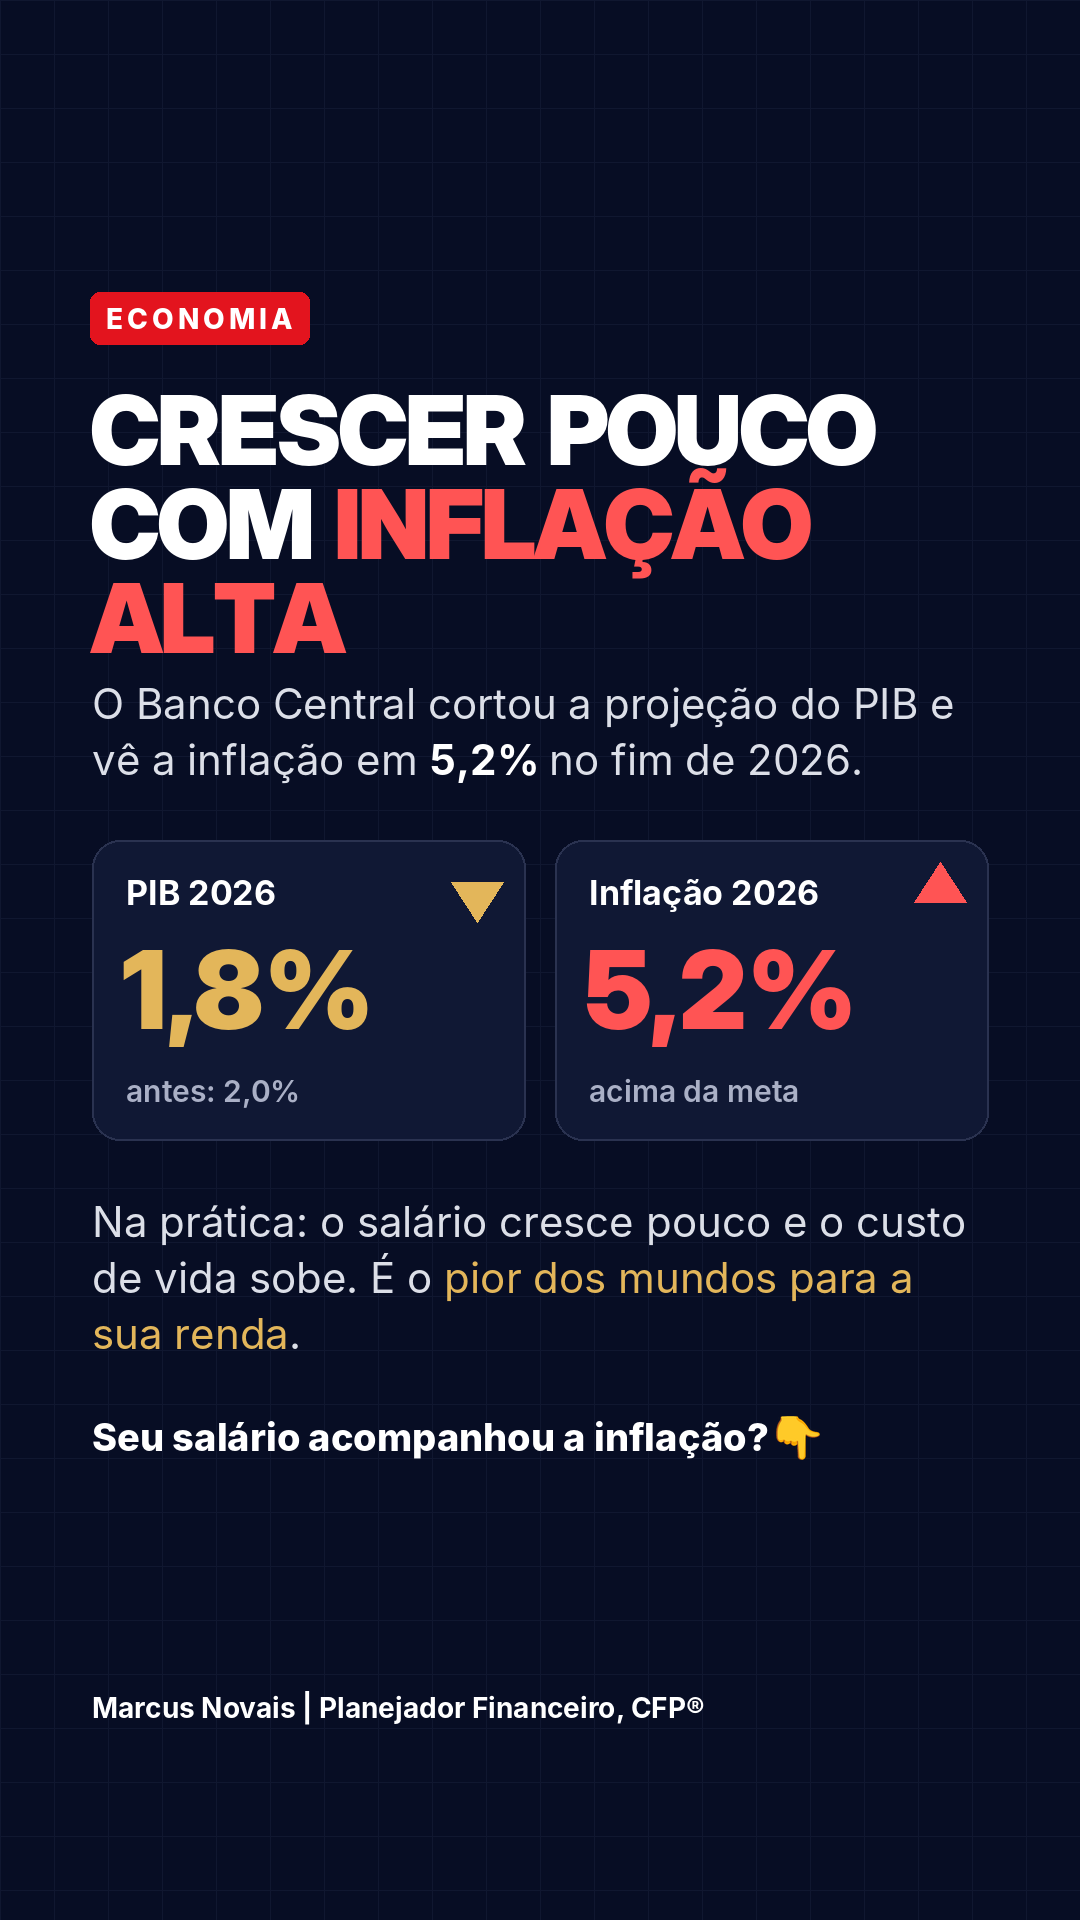
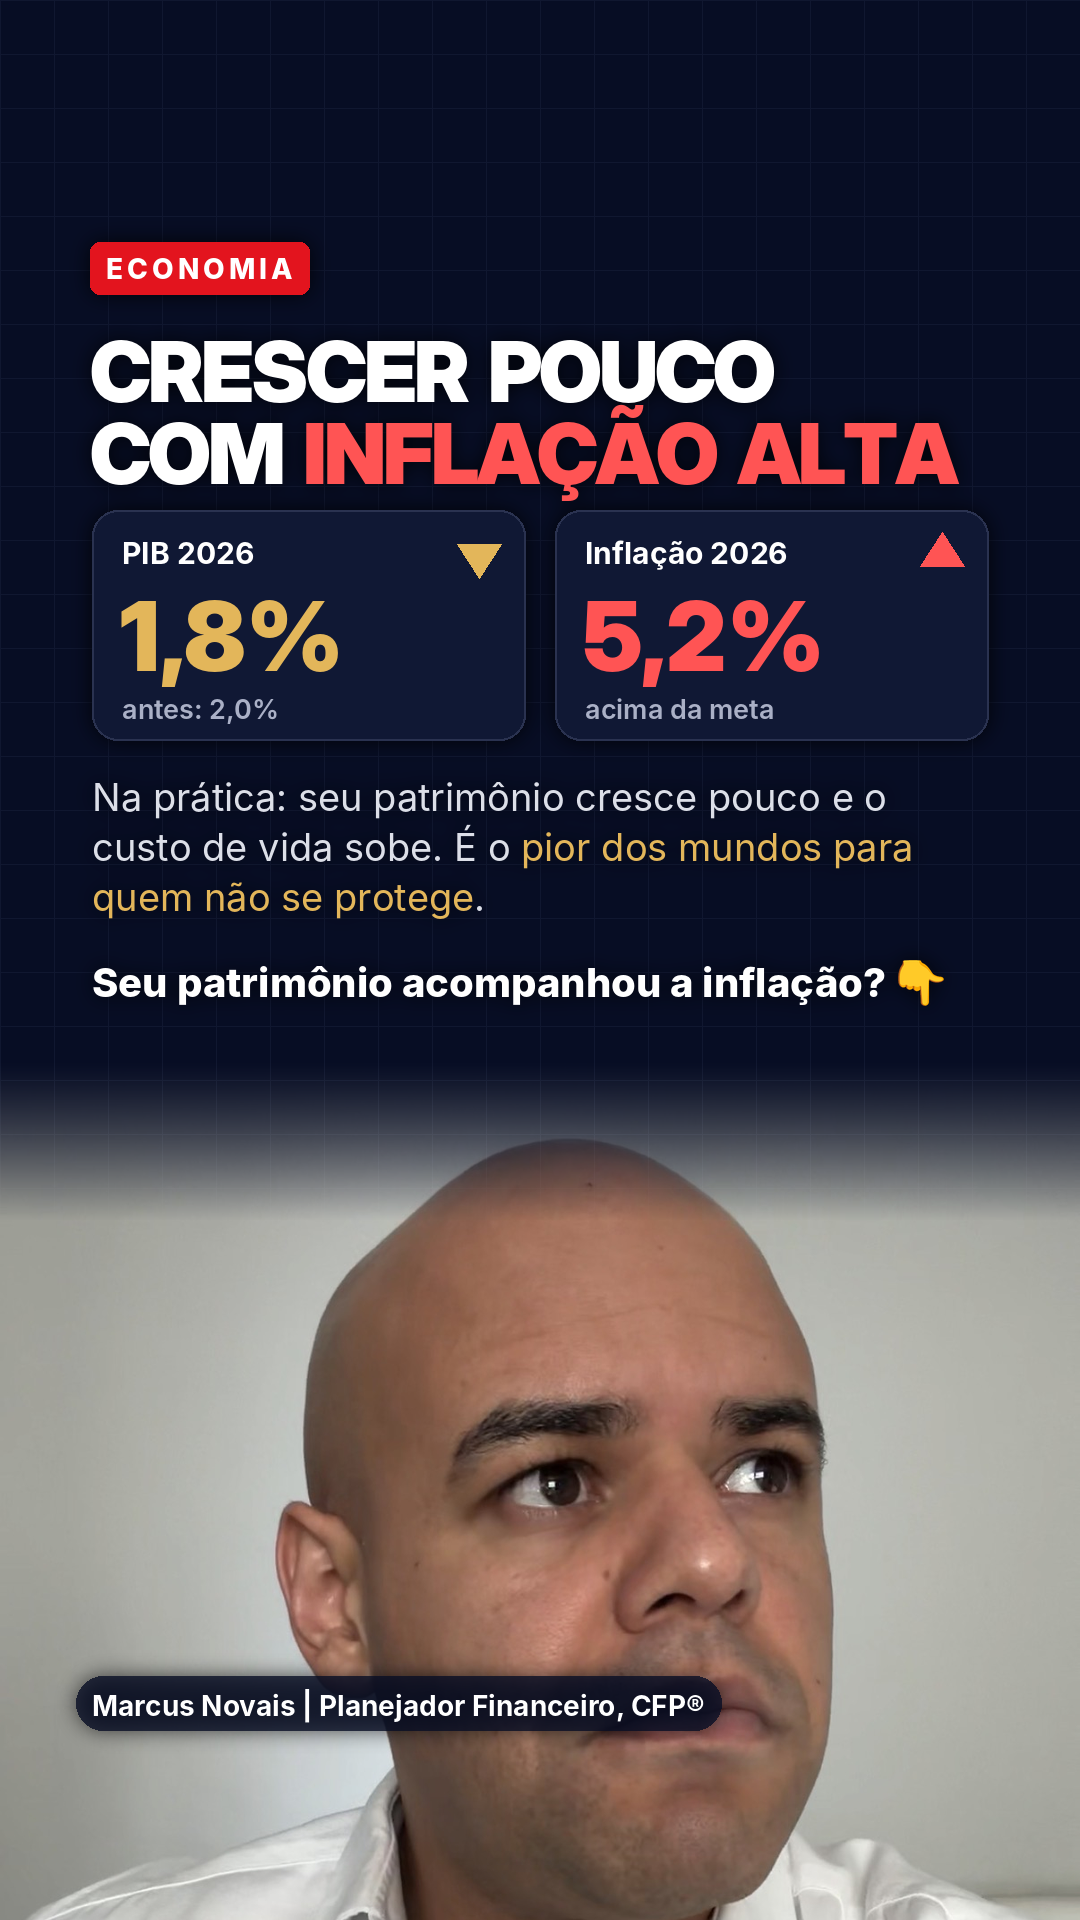
Atualiza story PIB/inflação: patrimônio e nova foto
Claude-Session: https://claude.ai/code/session_01JkBXj7bVeC85vzfDPDwbQR

diff --git a/posts/story-pib-inflacao/gerar.py b/posts/story-pib-inflacao/gerar.py
@@ -1,48 +1,56 @@
 import sys, os
 sys.path.insert(0, os.path.join(os.path.dirname(os.path.abspath(__file__)), "../../modelo"))
-import marcus_slides as M
 from marcus_slides import *
 
 OUT = os.path.dirname(os.path.abspath(__file__)) + "/"
 SW, SH = 1080, 1920
+FOTO = "/tmp/claude-0/-home-user-file-Users-marcusnovais-Downloads-Raio-X-20das-20D-vidas-html/ccc5c897-030e-52c5-8b6f-200b11dcfafa/images/1.jpg"
 
 img = Image.new("RGBA", (SW, SH), NAVY_BG); d = ImageDraw.Draw(img)
 for x in range(0, SW, 54): d.line([(x, 0), (x, SH)], fill=NAVY_GRID)
 for y in range(0, SH, 54): d.line([(0, y), (SW, y)], fill=NAVY_GRID)
 
-y = kicker_pill(d, "Economia", 92, 300)
-y = rich(d, "Crescer pouco com [r]inflação alta[/r]", 90, y + 6, 900, TITLE(96), TITLE(96), 94,
-         WHITE, GOLD_DARK, RED_DARK, tracking=-3, upper=True)
-y = rich(d, "O Banco Central cortou a projeção do PIB e vê a inflação em **5,2%** no fim de 2026.", 92, y + 24, 896,
-         font("Inter-Regular.otf", 42), font("Inter-Bold.otf", 42), 56, BODY_DARK, GOLD_DARK, RED_DARK, bold_color=WHITE)
+# foto na parte de baixo, inteira e com transparência mínima (só a borda de cima se funde ao fundo)
+p = Image.open(FOTO).convert("RGB"); p = p.resize((SW, int(p.height * SW / p.width)), Image.LANCZOS)
+PY = 1060
+crop = p.crop((0, 40, SW, 40 + SH - PY)).convert("RGBA")
+mask = Image.new("L", crop.size, 255); md = ImageDraw.Draw(mask)
+for yy in range(160):
+    md.line([(0, yy), (SW, yy)], fill=int(255 * (yy / 160) ** 1.3))
+img.paste(crop, (0, PY), mask)
+d = ImageDraw.Draw(img)
 
-# two stat tiles
-ty = y + 50; tw = 433; th = 300
-lab = font("Inter-Bold.otf", 34); big = font("InterDisplay-Black.otf", 108); sub = font("Inter-SemiBold.otf", 30)
+layer = Image.new("RGBA", (SW, SH), (0, 0, 0, 0)); t = ImageDraw.Draw(layer)
+y = kicker_pill(t, "Economia", 92, 250)
+y = rich(t, "Crescer pouco com [r]inflação alta[/r]", 90, y + 4, 900, TITLE(84), TITLE(84), 82,
+         WHITE, GOLD_DARK, RED_DARK, tracking=-3, upper=True)
+
+ty = y + 26; tw = 433; th = 230
+lab = font("Inter-Bold.otf", 30); big = font("InterDisplay-Black.otf", 96); sub = font("Inter-SemiBold.otf", 27)
 for i, (title, val, note, col, arrow) in enumerate([
         ("PIB 2026", "1,8%", "antes: 2,0%", GOLD_DARK, "down"),
         ("Inflação 2026", "5,2%", "acima da meta", RED_DARK, "up")]):
     x0 = 92 + i * (tw + 30)
-    d.rounded_rectangle((x0, ty, x0 + tw, ty + th), radius=28, fill=(16, 24, 52), outline=(42, 50, 80), width=2)
-    d.text((x0 + 34, ty + 32), title, font=lab, fill=WHITE)
-    d.text((x0 + 30, ty + 84), val, font=big, fill=col)
-    ax, ay = x0 + tw - 48, ty + 52
-    if arrow == "down":
-        d.polygon([(ax - 26, ay - 10), (ax + 26, ay - 10), (ax, ay + 30)], fill=col)
-    else:
-        d.polygon([(ax - 26, ay + 10), (ax + 26, ay + 10), (ax, ay - 30)], fill=col)
-    d.text((x0 + 34, ty + 232), note, font=sub, fill=(170, 176, 198))
+    t.rounded_rectangle((x0, ty, x0 + tw, ty + th), radius=26, fill=(16, 24, 52, 255), outline=(42, 50, 80, 255), width=2)
+    t.text((x0 + 30, ty + 24), title, font=lab, fill=WHITE)
+    t.text((x0 + 28, ty + 68), val, font=big, fill=col)
+    ax, ay = x0 + tw - 46, ty + 44
+    if arrow == "down": t.polygon([(ax - 22, ay - 10), (ax + 22, ay - 10), (ax, ay + 24)], fill=col)
+    else: t.polygon([(ax - 22, ay + 12), (ax + 22, ay + 12), (ax, ay - 22)], fill=col)
+    t.text((x0 + 30, ty + 182), note, font=sub, fill=(170, 176, 198))
 
-y = ty + th + 56
-y = rich(d, "Na prática: o salário cresce pouco e o custo de vida sobe. É o [g]pior dos mundos para a sua renda[/g].",
-         92, y, 896, font("Inter-Regular.otf", 42), font("Inter-Bold.otf", 42), 56, BODY_DARK, GOLD_DARK, RED_DARK, bold_color=WHITE)
+y = ty + th + 34
+y = rich(t, "Na prática: seu patrimônio cresce pouco e o custo de vida sobe. É o [g]pior dos mundos para quem não se protege[/g].",
+         92, y, 896, font("Inter-Regular.otf", 38), font("Inter-Bold.otf", 38), 50, BODY_DARK, GOLD_DARK, RED_DARK, bold_color=WHITE)
 
-# poll hint (leave space below for the Instagram poll sticker)
-hint = font("Inter-ExtraBold.otf", 38)
-d.text((92, y + 50), "Seu salário acompanhou a inflação?", font=hint, fill=WHITE)
-emoji(img, "👇", 92 + hint.getlength("Seu salário acompanhou a inflação? "), y + 52, 44)
-print("hint y", y + 50)
-
-foot = font("Inter-Bold.otf", 28)
-d.text((92, 1690), "Marcus Novais | Planejador Financeiro, CFP®", font=foot, fill=WHITE)
+hint = font("Inter-ExtraBold.otf", 40); q = "Seu patrimônio acompanhou a inflação?"
+t.text((92, y + 34), q, font=hint, fill=WHITE)
+emoji(layer, "👇", 92 + hint.getlength(q) + 12, y + 36, 46)
+ff = font("Inter-Bold.otf", 28); nm = "Marcus Novais | Planejador Financeiro, CFP®"
+t.rounded_rectangle((76, 1676, 108 + ff.getlength(nm), 1730), radius=27, fill=(7, 13, 36, 200))
+t.text((92, 1688), nm, font=ff, fill=WHITE)
+print("texto termina em", y)
+sh = Image.new("RGBA", (SW, SH), (0, 0, 0, 0))
+sh.putalpha(layer.split()[3].filter(ImageFilter.GaussianBlur(10)).point(lambda a: int(a * 0.8)))
+img.alpha_composite(sh); img.alpha_composite(layer)
 img.convert("RGB").save(OUT + "story.png", quality=95)
